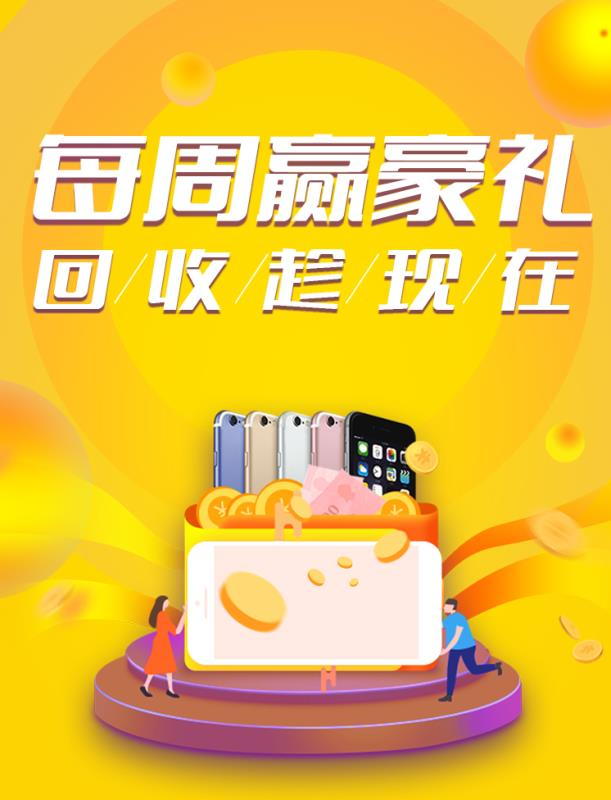
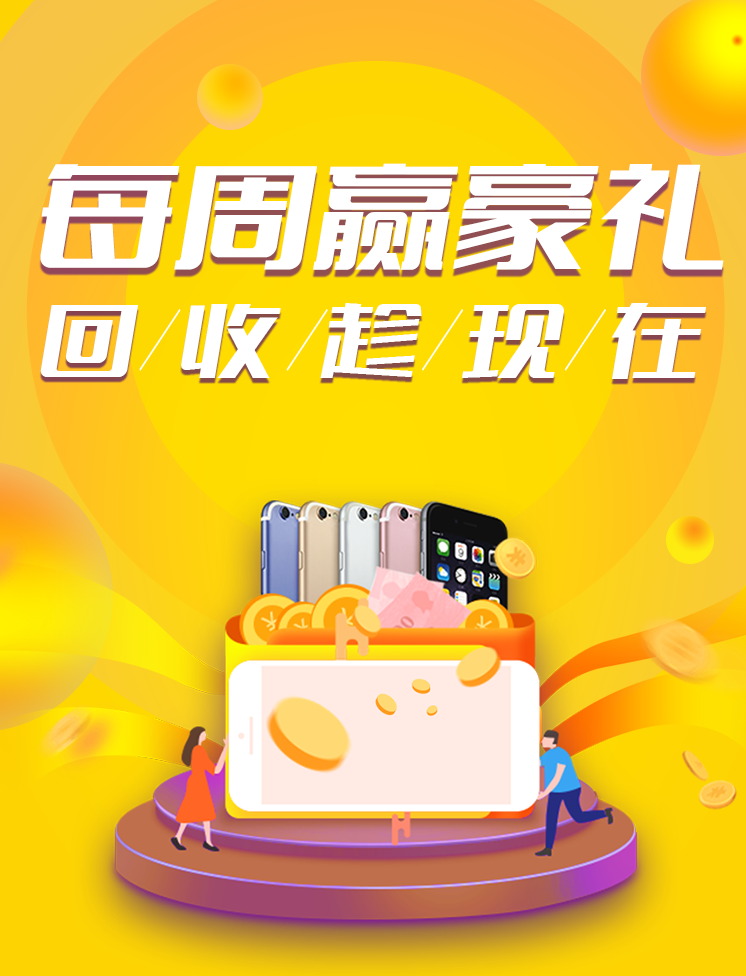
H5页面更新

diff --git a/WebRoot/ty_wap/activityPage.html b/WebRoot/ty_wap/activityPage.html
@@ -1,0 +1,95 @@
+<!DOCTYPE html>
+<html lang="zh-CN">
+<head>
+    <meta charset="UTF-8">
+    <meta name="viewport" content="width=device-width, initial-scale=1.0, minimum-scale=1.0, maximum-scale=1.0, user-scalable=no">
+    <meta http-equiv="X-UA-Compatible" content="ie=edge">
+    <link rel="stylesheet" href="css/reset.css">
+    <link rel="stylesheet" href="css/activityPage.css">
+    <title>活动页面</title>
+</head>
+<body>
+    <div  class="content-box">
+        <div class="header-box">
+            <img src="img/achead.png" alt class="img1">
+            <img src="img/acheadimg.png" alt class="img2">
+        </div>
+        <div class="main-box">
+            <img src="img/acset.png" class="imgset">
+            <img src="img/product1.jpg" alt class="img3">
+            <img src="img/399.png" alt  class="img5">
+            <img src="img/product2.png" alt  class="img4">
+            <img src="img/119.png" alt  class="img6">
+            <div class="text1">
+                <p>每周单笔回收金额最高</p>
+                <p>无线耳机*1</p>
+            </div>
+            <div class="text2">
+                <p>每周合计回收数量最大</p>
+                <p>移动电源*1</p>
+            </div>
+        </div>
+        <div class="bot-box">
+            <img src="img/acrule.png" class="imgrule">
+            <div class="text">
+                <div class="content">
+                <span>1.</span> <p>
+                    活动时间:8月4日—8月31日，每个周日到周六为一个发奖周期，共4个发奖周期。
+                </p>
+                </div>
+                <div class="content">
+                <span>2.</span><p>
+                在发奖周期内下单，且在下一个周四前完成回收，即可参加本次活动，
+                回收任何机型均可参与。例如：8.4-8.10之间下单，且在8.15日24点前交易
+                完成的用户，即为一个发奖周期的用户。
+            </p>
+                </div>
+                <div class="content">
+                <span>3.</span><p>
+                活动周期内，每周五统计上一个周期的中奖名单，每周单笔回收金额最高者，赠送价值399
+                元的小黄人无线耳机一副。每周合计回收数量最大者,赠价值119元移动电源一个。
+                每个用户在一个发奖周期内只可获得1次奖励，按照最高奖励为准，活动不可叠加。
+            </p>
+                </div>
+            <div class="content">
+                <span>4.</span><p>
+                手机号将作为统计个人成交总额的唯一标识，同一手机活动时间内多笔
+                订单，按每个发奖周期分别计算。
+            </p>
+            </div>
+            <div class="content">
+                <span>5.</span><p>
+                获奖后我们将以短信和电话的形式通知，并确认奖品邮寄地址。
+            </p>
+            </div>
+            <div class="content">
+                <span>6.</span><p>
+                奖品将在活动结束后15个工作日内统一发放。
+            </p>
+            </div>
+                <div class="content">
+                <span>7.</span><p>
+                如有未尽事宜，请联系客服：
+            </p>
+                <p>
+                    0571-87162535/400-8110-299
+                </p>
+                </div>
+            </div>
+        </div>
+        <div id="bottom-box" class="bottom-box" >
+            立即回收 赢取豪礼
+        </div>
+        <div class="lastbottom">
+		</div>
+    </div>
+	<script src="js/jquery.js"></script>
+    <script>
+          G = window.G || {};
+		  $('#bottom-box').click( function(){
+				window.location.href ='product.html'
+		  });
+
+    </script>
+</body>
+</html>

diff --git a/WebRoot/ty_wap/css/activityPage.css b/WebRoot/ty_wap/css/activityPage.css
@@ -1,0 +1,158 @@
+.content-box{
+    background: url("../img/acbg.png");
+    width: 100%;
+    height: 100%;
+    overflow: hidden;
+    position: relative;
+    background-size: 100%;
+    text-align: center;
+}
+.header-box{
+    text-align: center;
+    padding-top: 40px;
+}
+.header-box .img1{
+    width:auto;
+    height:auto;
+    max-width:80%;
+    max-height:80%;
+}
+.header-box .img2{
+    width:auto;
+    height:auto;
+    max-width:85%;
+    max-height:85%;
+}
+.main-box{
+    width: 90%;
+    height: 247px;
+    background: #fff;
+    border-radius: 10px;
+    box-shadow: 0px 0px 7px 3px #f8cb02;
+    display: inline-block;
+    position: relative;
+}
+.main-box .imgset{
+    width:auto;
+    height:auto;
+    max-width:35%;
+    max-height:35%;
+    position: absolute;
+    top: -25px;
+    left: 35%;
+}
+.main-box .img3{
+    width:auto;
+    height:auto;
+    max-width:52%;
+    max-height:52%;
+}
+.main-box .img5, .main-box .img6{
+    width:auto;
+    height:auto;
+    max-width:21%;
+    max-height:21%;
+    position: absolute;
+    top: 40px;
+}
+.main-box .img3{
+    position: absolute;
+    left: 0px;
+    top: 23%;
+}
+.main-box .img4{
+    width:auto;
+    height:auto;
+    max-width:47%;
+    max-height:47%;
+    position: absolute;
+    left: 61%;
+    top: 23%;
+}
+.main-box .img5{
+    position: absolute;
+    left: 31%;
+}
+.main-box .img6{
+    position:absolute;
+    right: 10px;
+}
+.main-box .text1{
+    font-family: PingFangSC-Regular, sans-serif;
+    color: #333;
+    font-size: 14px;
+    font-weight: bold;
+    letter-spacing: 0.02rem;
+    line-height: 1.5rem;
+    position: absolute;
+    left: 2%;
+    bottom: 10px;
+}
+.main-box .text2{
+    font-family: PingFangSC-Regular, sans-serif;
+    color: #333;
+    font-size: 14px;
+    font-weight: bold;
+    line-height: 1.5rem;
+    letter-spacing: 0.02rem;
+    position: absolute;
+    right: 2%;
+    bottom: 10px;
+}
+.bot-box{
+    width: 90%;
+    /*height: 600px;*/
+    background: #fff;
+    border-radius: 10px;
+    box-shadow: 0px 0px 7px 3px #f8cb02;
+    display: inline-block;
+    position: relative;
+    margin-top: 30px;
+}
+.bot-box .imgrule{
+    width:auto;
+    height:auto;
+    max-width:35%;
+    max-height:35%;
+    position: absolute;
+    top: -25px;
+    left: 35%;
+}
+.text{
+    font-family: PingFangSC-Regular, sans-serif;
+    color: #333;
+    display: inline-block;
+    /*position:absolute;*/
+    /*top: 10px;*/
+    margin-top: 30px;
+}
+.text span{
+    line-height: 1.5rem;
+    position: absolute;
+    left: 15px;
+}
+.content{
+    margin: 0 18px 18px 30px;
+}
+.content p{
+    line-height: 1.5rem;
+    letter-spacing: 1px;
+    text-align: left;
+    text-indent: 3px;
+}
+.bottom-box{
+    font-family: PingFangSC-Regular, sans-serif;
+    font-size: 22px;
+    color: #fff;
+    width: 100%;
+    height: 45px;
+    line-height: 45px;
+    margin-top: 30px;
+   /*padding-bottom: 10px;*/
+    background: url("../img/acbottom.png") no-repeat 100% 100%;
+    background-size: 100% 100%;
+    vertical-align: center;
+}
+.lastbottom{
+    margin-top: 10px;
+}

diff --git a/WebRoot/ty_wap/indexHappy.html b/WebRoot/ty_wap/indexHappy.html
@@ -86,10 +86,10 @@
             <div class="img-active-wrap">
 
                     <i class="close-active-btn js-close-active"></i>
-                <a class="join-active-btn" href="http://m-super.com/hs_hd/index.html#/?hd=ayll003&fm=24">
+                <a class="join-active-btn" href="activityPage.html">
                     <img class="img-active" src="./img/72_image.png" alt="">
                 </a>
-                <a class="join-active-btn special" href="http://m-super.com/hs_hd/index.html#/?hd=ayll003&fm=24">立即参加</a>
+                <a class="join-active-btn special" href="activityPage.html">立即参加</a>
             </div>
         </div>
         <!-- end of 首页弹窗 -->
@@ -102,7 +102,7 @@
             <div class="swiper-container">
                 <div class="banner">
                     <div class="slide-item">
-                        <a href="product.html"><img src="img/banner5.png" alt=""></a>
+                        <a href="activityPage.html"><img src="img/banner7.png" alt=""></a>
                     </div>
                     <div class="slide-item">
                         <a href="product.html"><img src="img/banner3.png" alt=""></a>

diff --git a/WebRoot/ty_wap/css/addPricePoster.css b/WebRoot/ty_wap/css/addPricePoster.css
@@ -17,7 +17,7 @@
 }
 .add-price-ticket .list-title{
 	position:relative;
-	line-height:2.em;
+	line-height:2em;
 	font-size:1.2em;
 	color:#666666;
 }
